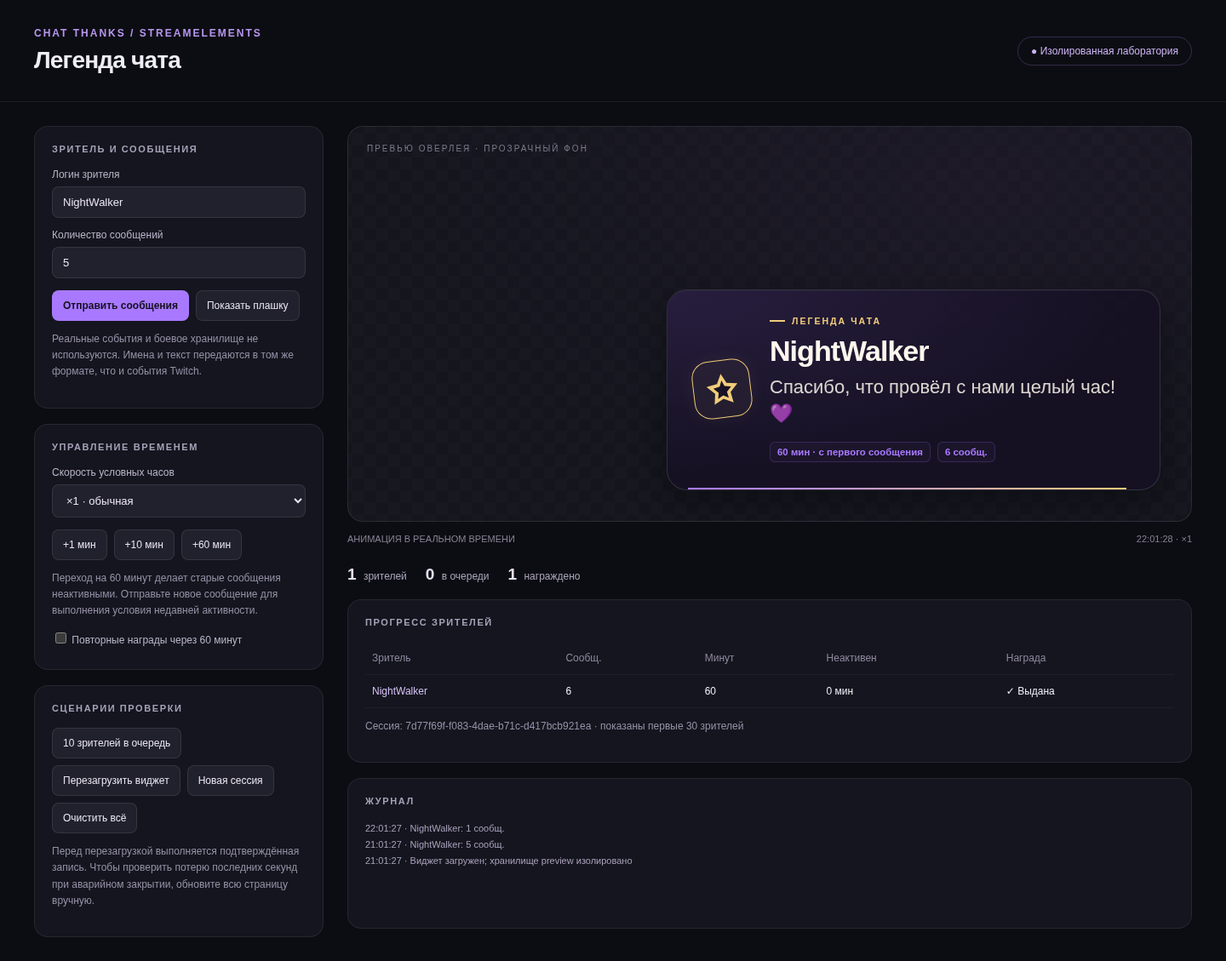
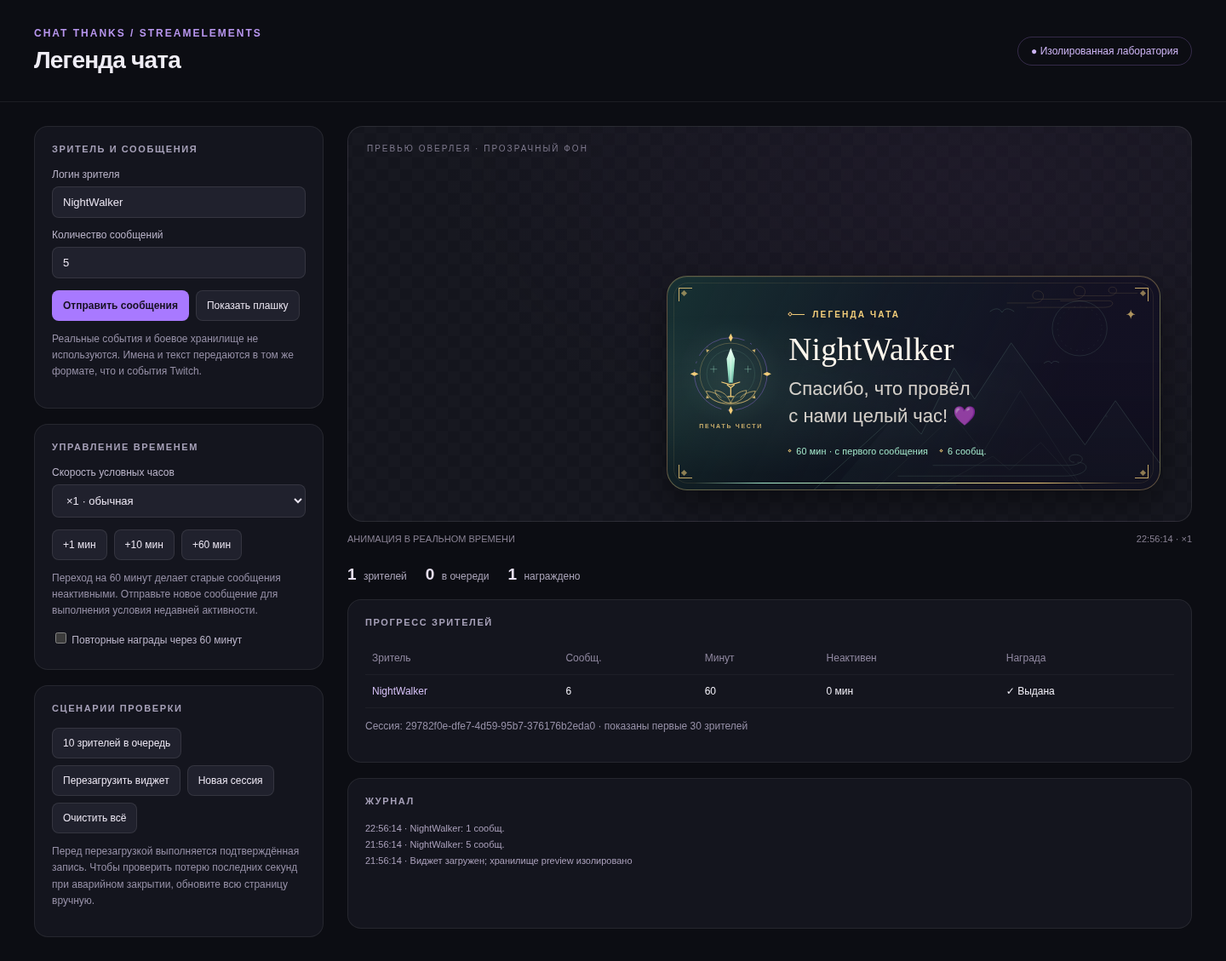
Оформить благодарности в стиле дунхуа: нефритовая печать, лотос, горы и золотые орнаменты

diff --git a/widget/CSS.css b/widget/CSS.css
@@ -1,35 +1,98 @@
 html, body { margin:0; background:transparent !important; }
-/* Все селекторы ограничены виджетом; фон Browser Source прозрачен. */
-#thanks-root { --primary:#a879ff; --secondary:#f1cc79; --panel:#151123; --ink:#fff7ed; --font:22px; --width:580px; --radius:24px; --enter:.65s; --hold:7s; --exit:.55s; position:fixed; inset:0; overflow:hidden; pointer-events:none; font-family:Inter,"Segoe UI",Arial,sans-serif; color:var(--ink); }
+/* Дунхуа / сянься: нефритовая печать, золотая нить и тушевые горы.
+   Векторный декор без внешних ресурсов. Двигаются только transform и opacity. */
+#thanks-root {
+  --primary:#a879ff; --secondary:#f1cc79; --panel:#151123; --ink:#fff7ed;
+  --jade:#a4e9cc; --font:22px; --width:580px; --radius:24px;
+  --enter:.65s; --hold:7s; --exit:.55s;
+  position:fixed; inset:0; overflow:hidden; pointer-events:none;
+  font-family:"Segoe UI",Arial,sans-serif; color:var(--ink);
+}
 #thanks-root *, #thanks-root *::before, #thanks-root *::after { box-sizing:border-box; }
 #thanks-root [hidden] { display:none!important; }
-#thanks-root .thanks-card { position:absolute; right:36px; bottom:36px; width:min(var(--width),calc(100% - 72px)); display:flex; gap:22px; align-items:center; padding:30px 30px 32px; border:1px solid #ffffff20; border-radius:var(--radius); background:var(--panel); background:color-mix(in srgb,var(--panel) 93%,transparent); box-shadow:0 12px 40px #0005, inset 0 1px #ffffff0a; isolation:isolate; opacity:0; transform:translateX(110%); }
-#thanks-root .thanks-card::before { content:""; position:absolute; inset:0; border-radius:inherit; background:radial-gradient(ellipse at 0 0,#a879ff20,transparent 65%); z-index:-1; }
+#thanks-root .thanks-card {
+  position:absolute; right:36px; bottom:36px;
+  width:min(var(--width),calc(100% - 72px)); display:flex;
+  align-items:center; gap:clamp(12px,calc(var(--width) / 30),22px);
+  padding:32px clamp(16px,calc(var(--width) / 22),30px) 34px;
+  border:1px solid #f1cc7952; border-color:color-mix(in srgb,var(--secondary) 35%,transparent);
+  border-radius:var(--radius); background:var(--panel);
+  background:linear-gradient(115deg,#183e39b3 0%,#10272b70 39%,#060f1b20 75%),var(--panel);
+  box-shadow:0 16px 38px #0006,inset 0 1px #f1cc7915;
+  isolation:isolate; opacity:0; transform:translateX(110%);
+}
+#thanks-root .thanks-card::before {
+  content:""; position:absolute; inset:0; z-index:-1; border-radius:inherit;
+  background:radial-gradient(ellipse at 14% 55%,#a4e9cc12,transparent 49%),linear-gradient(0deg,#0003,transparent 60%);
+}
+#thanks-root .thanks-card::after {
+  content:""; position:absolute; inset:7px; pointer-events:none;
+  border:1px solid #f1cc7919; border-radius:max(0px,calc(var(--radius) - 7px));
+}
+#thanks-root .thanks-landscape {
+  position:absolute; inset:0; width:100%; height:100%; color:var(--jade);
+  opacity:.2; z-index:0; pointer-events:none; border-radius:inherit;
+}
+#thanks-root .thanks-cloud { position:absolute; color:var(--secondary); pointer-events:none; opacity:.24; }
+#thanks-root .thanks-cloud-top { top:10px; right:25px; width:155px; height:29px; }
+#thanks-root .thanks-cloud svg { display:block; width:100%; height:100%; }
+#thanks-root .thanks-corner { position:absolute; width:16px; height:16px; border-top:1px solid var(--secondary); border-left:1px solid var(--secondary); opacity:.8; z-index:3; }
+#thanks-root .thanks-corner::after { content:""; position:absolute; top:3px; left:3px; width:5px; height:5px; background:var(--secondary); transform:rotate(45deg); opacity:.7; }
+#thanks-root .thanks-corner-tl { top:13px; left:13px; }
+#thanks-root .thanks-corner-tr { top:13px; right:13px; transform:rotate(90deg); }
+#thanks-root .thanks-corner-bl { bottom:13px; left:13px; transform:rotate(-90deg); }
+#thanks-root .thanks-corner-br { bottom:13px; right:13px; transform:rotate(180deg); }
+#thanks-root .thanks-icon { position:relative; z-index:2; flex:0 0 clamp(56px,calc(var(--width) / 6),100px); min-width:0; align-self:center; color:var(--secondary); text-align:center; }
+#thanks-root .thanks-seal { position:relative; width:100%; aspect-ratio:1; }
+#thanks-root .thanks-seal::before { content:""; position:absolute; inset:-16%; background:radial-gradient(circle,#a4e9cc14,transparent 68%); border-radius:50%; }
+#thanks-root .thanks-seal svg { display:block; position:relative; width:100%; height:100%; }
+#thanks-root .thanks-seal-ring { stroke:var(--primary); opacity:.7; }
+#thanks-root .thanks-seal-caption { display:block; font-size:7px; font-weight:600; line-height:1.5; letter-spacing:1.7px; margin:9px -4px 0; opacity:.8; }
+#thanks-root .thanks-copy { position:relative; z-index:2; min-width:0; flex:1; padding:3px 0; }
+#thanks-root .thanks-eyebrow { display:flex; align-items:center; gap:9px; color:var(--secondary); font-size:calc(var(--font) * .46); font-weight:600; line-height:1.5; letter-spacing:2.1px; overflow-wrap:anywhere; }
+#thanks-root .thanks-line { position:relative; display:block; width:19px; height:1px; background:var(--secondary); flex-shrink:0; }
+#thanks-root .thanks-line::before { content:""; position:absolute; width:4px; height:4px; left:0; top:-1.5px; border:1px solid var(--secondary); background:var(--panel); transform:rotate(45deg); }
+#thanks-root .thanks-title-star { margin-left:auto; font-size:13px; opacity:.7; }
+#thanks-root h1 { margin:11px 0 9px; font-family:Georgia,"Times New Roman",serif; font-size:calc(var(--font) * 1.7); line-height:1.12; font-weight:500; letter-spacing:.2px; overflow-wrap:anywhere; text-shadow:0 1px 16px #f1cc7912; }
+#thanks-root p { margin:0; font-size:var(--font); font-weight:400; line-height:1.45; opacity:.82; overflow-wrap:anywhere; white-space:pre-wrap; text-wrap:balance; }
+#thanks-root .thanks-stats { display:flex; flex-wrap:wrap; align-items:center; gap:7px 14px; margin-top:17px; color:var(--jade); font-size:calc(var(--font) * .49); line-height:1.5; letter-spacing:.15px; }
+#thanks-root .thanks-stats span { display:inline-flex; gap:6px; align-items:center; }
+#thanks-root .thanks-stats span::before { content:""; width:3px; height:3px; border:1px solid var(--secondary); transform:rotate(45deg); flex:0 0 3px; opacity:.9; }
+#thanks-root .thanks-progress { position:absolute; z-index:3; height:1px; bottom:7px; left:calc(var(--radius) + 7px); right:calc(var(--radius) + 7px); background:linear-gradient(90deg,transparent,var(--jade) 16%,var(--secondary) 80%,transparent); transform-origin:left; }
+#thanks-root .thanks-particles { position:absolute; z-index:3; inset:0; overflow:hidden; border-radius:inherit; pointer-events:none; }
+#thanks-root .thanks-particles i { position:absolute; width:2px; height:2px; border-radius:50%; background:var(--secondary); opacity:0; left:var(--x); top:var(--y); }
+#thanks-root .thanks-particles i:nth-child(even) { background:var(--jade); width:3px; height:3px; }
+#thanks-root .thanks-particles i:nth-child(1) { --x:8%; --y:30%; --delay:0s; }
+#thanks-root .thanks-particles i:nth-child(2) { --x:24%; --y:78%; --delay:.08s; }
+#thanks-root .thanks-particles i:nth-child(3) { --x:66%; --y:13%; --delay:.12s; }
+#thanks-root .thanks-particles i:nth-child(4) { --x:89%; --y:62%; --delay:.04s; }
+#thanks-root .thanks-particles i:nth-child(5) { --x:41%; --y:10%; --delay:.17s; }
+#thanks-root .thanks-particles i:nth-child(6) { --x:72%; --y:86%; --delay:.08s; }
+#thanks-root .thanks-particles i:nth-child(7) { --x:95%; --y:22%; --delay:.19s; }
+#thanks-root .thanks-particles i:nth-child(8) { --x:13%; --y:89%; --delay:.14s; }
 #thanks-root .thanks-card.enter { animation:thanks-enter var(--enter) cubic-bezier(.16,1,.3,1) both; }
-#thanks-root .thanks-card.hold { opacity:1; transform:translateX(0); }
-#thanks-root .thanks-card.exit { animation:thanks-exit var(--exit) ease-in both; }
-#thanks-root .thanks-icon { flex:0 0 68px; width:68px; height:68px; display:grid; place-items:center; border:1px solid var(--secondary); border-radius:20px; color:var(--secondary); background:#f1cc790b; box-shadow:0 0 22px #f1cc7912; transform:rotate(-7deg); }
-#thanks-root .thanks-icon svg { width:45px; height:45px; }
-#thanks-root .thanks-copy { min-width:0; flex:1; }
-#thanks-root .thanks-eyebrow { display:flex; align-items:center; gap:8px; color:var(--secondary); font-size:calc(var(--font)*.48); font-weight:700; letter-spacing:2px; overflow-wrap:anywhere; }
-#thanks-root .thanks-line { display:block; width:18px; height:2px; background:var(--secondary); flex-shrink:0; }
-#thanks-root h1 { margin:10px 0 8px; font-size:calc(var(--font)*1.55); line-height:1.15; font-weight:750; letter-spacing:-1px; overflow-wrap:anywhere; }
-#thanks-root p { margin:0; font-size:var(--font); line-height:1.4; opacity:.85; overflow-wrap:anywhere; white-space:pre-wrap; }
-#thanks-root .thanks-stats { display:flex; flex-wrap:wrap; gap:8px; margin-top:17px; color:var(--primary); font-size:calc(var(--font)*.52); font-weight:600; }
-#thanks-root .thanks-stats span { border:1px solid #a879ff30; border-radius:6px; padding:5px 8px; background:#a879ff0a; }
-#thanks-root .thanks-progress { position:absolute; height:2px; bottom:0; left:var(--radius); right:var(--radius); background:linear-gradient(90deg,var(--primary),var(--secondary)); transform-origin:left; }
-#thanks-root .hold .thanks-progress { animation:thanks-timer var(--hold) linear both; }
-#thanks-root .thanks-particles { position:absolute; inset:0; overflow:hidden; border-radius:inherit; pointer-events:none; }
-#thanks-root .thanks-particles i { position:absolute; width:3px; height:3px; border-radius:50%; background:var(--secondary); opacity:0; left:var(--x); top:var(--y); }
+#thanks-root .enter .thanks-seal svg { animation:thanks-seal-reveal var(--enter) ease-out both; }
 #thanks-root .enter .thanks-particles i { animation:thanks-spark 1.4s ease-out both; animation-delay:var(--delay); }
-#thanks-root .thanks-particles i:nth-child(1){--x:8%;--y:30%;--delay:0s} #thanks-root .thanks-particles i:nth-child(2){--x:25%;--y:80%;--delay:.1s} #thanks-root .thanks-particles i:nth-child(3){--x:65%;--y:15%;--delay:.15s} #thanks-root .thanks-particles i:nth-child(4){--x:89%;--y:60%;--delay:.05s} #thanks-root .thanks-particles i:nth-child(5){--x:40%;--y:10%;--delay:.2s} #thanks-root .thanks-particles i:nth-child(6){--x:70%;--y:90%;--delay:.1s} #thanks-root .thanks-particles i:nth-child(7){--x:95%;--y:20%;--delay:.2s} #thanks-root .thanks-particles i:nth-child(8){--x:12%;--y:90%;--delay:.15s}
+#thanks-root .thanks-card.hold { opacity:1; transform:translateX(0); }
+#thanks-root .hold .thanks-progress { animation:thanks-timer var(--hold) linear both; }
+#thanks-root .hold .thanks-particles i { animation:thanks-mote var(--hold) ease-out both; animation-delay:var(--delay); }
+#thanks-root .thanks-card.exit { animation:thanks-exit var(--exit) ease-in both; }
 #thanks-root[data-position="top-left"] .thanks-card { left:36px; right:auto; top:36px; bottom:auto; }
 #thanks-root[data-position="top-right"] .thanks-card { top:36px; bottom:auto; }
 #thanks-root[data-position="bottom-left"] .thanks-card { left:36px; right:auto; }
 #thanks-root[data-position="center"] { display:grid; place-items:center; }
 #thanks-root[data-position="center"] .thanks-card { position:relative; inset:auto; }
-@keyframes thanks-enter { from {opacity:0;transform:translateX(110%)} to {opacity:1;transform:translateX(0)} }
-@keyframes thanks-exit { from {opacity:1;transform:translateX(0)} to {opacity:0;transform:translateX(60px)} }
-@keyframes thanks-timer { from {transform:scaleX(1)} to {transform:scaleX(0)} }
-@keyframes thanks-spark { 0% {opacity:0;transform:translate(12px,10px) scale(.5)} 25% {opacity:.8} 100% {opacity:0;transform:translate(-18px,-25px) scale(0)} }
-@media(prefers-reduced-motion:reduce) { #thanks-root .thanks-card.enter,#thanks-root .thanks-card.exit { animation-timing-function:linear; } #thanks-root .thanks-particles { display:none; } }
+@keyframes thanks-enter { from { opacity:0; transform:translateX(110%); } to { opacity:1; transform:translateX(0); } }
+@keyframes thanks-exit { from { opacity:1; transform:translateX(0); } to { opacity:0; transform:translateX(60px); } }
+@keyframes thanks-seal-reveal { from { opacity:0; transform:rotate(-12deg) scale(.85); } to { opacity:1; transform:rotate(0) scale(1); } }
+@keyframes thanks-timer { from { transform:scaleX(1); } to { transform:scaleX(0); } }
+@keyframes thanks-spark { 0% { opacity:0; transform:translate(8px,8px) scale(.5); } 30% { opacity:.8; } 100% { opacity:0; transform:translate(-12px,-22px) scale(0); } }
+@keyframes thanks-mote { 0% { opacity:0; transform:translateY(8px); } 20% { opacity:.6; } 100% { opacity:0; transform:translateY(-30px); } }
+@media(prefers-reduced-motion:reduce) {
+  #thanks-root .thanks-card.enter { animation-name:thanks-fade-in; }
+  #thanks-root .thanks-card.exit { animation-name:thanks-fade-out; }
+  #thanks-root .thanks-particles { display:none; }
+  #thanks-root .thanks-seal svg { animation:none!important; }
+}
+@keyframes thanks-fade-in { from { opacity:0; transform:translateX(0); } to { opacity:1; transform:translateX(0); } }
+@keyframes thanks-fade-out { from { opacity:1; transform:translateX(0); } to { opacity:0; transform:translateX(0); } }

diff --git a/widget/HTML.html b/widget/HTML.html
@@ -1,11 +1,44 @@
-<div id="thanks-root" aria-live="polite">
+<div id="thanks-root" data-theme="donghua" aria-live="polite">
   <section id="thanks-card" class="thanks-card" hidden>
+    <svg class="thanks-landscape" viewBox="0 0 680 280" preserveAspectRatio="xMaxYMax slice" fill="none" aria-hidden="true">
+      <circle cx="575" cy="68" r="36" stroke="currentColor" stroke-width=".65"/>
+      <circle cx="575" cy="68" r="29" stroke="currentColor" stroke-width=".35" stroke-dasharray="2 6"/>
+      <path d="m250 280 89-103 28 30 43-87 27 41 48-74 97 134 40-58 58 82v35Z" fill="currentColor" opacity=".12"/>
+      <path d="m226 280 113-103 28 30 43-87 27 41 48-74 97 134 40-58 58 82" stroke="currentColor" stroke-width=".8"/>
+      <path d="m306 280 103-98 39 49 49-81 83 130m-199 0 80-44 22 18 41-36 56 62" stroke="currentColor" stroke-width=".45" opacity=".7"/>
+      <path d="M457 46c8-6 13-4 16 1 3-5 8-7 16-1m39 68c5-4 8-3 10 0 2-3 5-4 10-1" stroke="currentColor" stroke-width=".8"/>
+      <path d="M382 248h177c24 0 24-14 10-14-10 0-10 10-1 10m-232 18h219c34 0 35-18 17-18m-299 29h140" stroke="currentColor" stroke-width=".7"/>
+    </svg>
+    <div class="thanks-cloud thanks-cloud-top" aria-hidden="true">
+      <svg viewBox="0 0 240 44" fill="none"><path d="M1 32h49c22 0 22-22 7-22-12 0-12 15-2 15h68c25 0 25-23 10-23-13 0-13 17-2 17h54c19 0 19-16 8-16-9 0-9 11-2 11h48M37 40h140c20 0 20-12 9-12H98" stroke="currentColor" stroke-width=".8"/></svg>
+    </div>
+    <span class="thanks-corner thanks-corner-tl" aria-hidden="true"></span>
+    <span class="thanks-corner thanks-corner-tr" aria-hidden="true"></span>
+    <span class="thanks-corner thanks-corner-bl" aria-hidden="true"></span>
+    <span class="thanks-corner thanks-corner-br" aria-hidden="true"></span>
     <div class="thanks-particles" aria-hidden="true"><i></i><i></i><i></i><i></i><i></i><i></i><i></i><i></i></div>
     <div class="thanks-icon" aria-hidden="true">
-      <svg viewBox="0 0 64 64" fill="none"><path d="m32 6 8 16 18 3-13 13 3 18-16-8-16 8 3-18L6 25l18-3Z" fill="currentColor"/><path d="m32 17 4 10 11 2-8 8 2 10-9-5-9 5 2-10-8-8 11-2Z" fill="#171125"/></svg>
+      <div class="thanks-seal">
+        <svg viewBox="0 0 120 120" fill="none">
+          <defs>
+            <linearGradient id="thanks-jade-blade" x1="55" y1="24" x2="65" y2="82" gradientUnits="userSpaceOnUse"><stop stop-color="#effff3"/><stop offset=".48" stop-color="#a4e9cc"/><stop offset="1" stop-color="#4e9e91"/></linearGradient>
+          </defs>
+          <circle class="thanks-seal-ring" cx="60" cy="60" r="53" stroke="currentColor" stroke-width=".65" stroke-dasharray="76 9 3 9"/>
+          <circle cx="60" cy="60" r="45" stroke="currentColor" stroke-width=".5" opacity=".65"/>
+          <path d="m60 1 3 6-3 6-3-6Zm59 59-6 3-6-3 6-3ZM60 119l-3-6 3-6 3 6ZM1 60l6-3 6 3-6 3Z" fill="currentColor"/>
+          <path d="m24 24 5 1-4 4Zm72 0-1 5-4-4Zm0 72-5-1 4-4Zm-72 0 1-5 4 4Z" fill="currentColor" opacity=".8"/>
+          <circle cx="60" cy="60" r="35" stroke="#a4e9cc" stroke-width=".4" opacity=".35"/>
+          <path d="m60 22 6 16-3 35h-6l-3-35Z" fill="url(#thanks-jade-blade)"/>
+          <path d="M60 30v42" stroke="#f3fff6" stroke-width=".8" opacity=".9"/>
+          <path d="m47 72 13 4 13-4m-18 4 5 4 5-4m-5 5v12m-4 0h8" stroke="currentColor" stroke-width="1.6" stroke-linecap="round" stroke-linejoin="round"/>
+          <path d="M60 103c-13-2-22-9-23-19 11 1 19 7 23 19Zm0 0c13-2 22-9 23-19-11 1-19 7-23 19Zm0 0c-20 1-33-7-36-18 11 1 18 5 22 10m14 8c20 1 33-7 36-18-11 1-18 5-22 10" stroke="currentColor" stroke-width=".8"/>
+          <path d="M30 53h10m-5-5v10m45-5h10m-5-5v10" stroke="#a4e9cc" stroke-width=".65" opacity=".7"/>
+        </svg>
+      </div>
+      <span class="thanks-seal-caption">ПЕЧАТЬ ЧЕСТИ</span>
     </div>
     <div class="thanks-copy">
-      <div class="thanks-eyebrow"><span class="thanks-line"></span><span id="thanks-title"></span></div>
+      <div class="thanks-eyebrow"><span class="thanks-line"></span><span id="thanks-title"></span><span class="thanks-title-star" aria-hidden="true">✦</span></div>
       <h1 id="thanks-name"></h1>
       <p id="thanks-text"></p>
       <div class="thanks-stats"><span id="thanks-minutes"></span><span id="thanks-messages"></span></div>

diff --git a/docs/DONGHUA.md b/docs/DONGHUA.md
@@ -1,0 +1,19 @@
+# Оформление в стиле дунхуа
+
+Фэнтезийная тема в духе сянься: нефритовый меч, лотос и орбитальная печать, тонкая золотая рамка, облачные линии, тушевые горы и луна. Имя зрителя выделено крупным шрифтом с засечками; остальной текст остаётся русским и читаемым.
+
+![Плашка в стиле дунхуа](DONGHUA.png)
+
+## Как получить оформление
+
+Тема опубликована в `widget/HTML.html` и `widget/CSS.css`. При установленном новом AUTOUPDATE.js (загрузка HTML/CSS/JS) она приходит автоматически при очередной проверке, обычно в течение пяти минут, после завершения текущей очереди. Чтобы получить её сразу, обновите оверлей. FIELDS, DATA и прогресс менять не нужно.
+
+Старый загрузчик только JavaScript не загружает новую тему: его нужно один раз заменить по [инструкции](AUTOUPDATE.md). В ручном режиме скопируйте обновлённые HTML.html и CSS.css в соответствующие вкладки, сохраните и обновите виджет.
+
+## Настройки и производительность
+
+Размер шрифта, ширина, скругление, положение, текст и длительность по-прежнему задаются существующими FIELDS. Основной цвет управляет внешней орбитой печати, дополнительный — золотым обрамлением и заголовком, цвет фона — основой тёмной плашки, цвет текста — именем и благодарностью. Нефритовый меч и дымчатые горы — детали темы с собственным мягким оттенком; сохранённые пользовательские цвета не сбрасываются.
+
+Частицы отключаются прежним полем. Все изображения — встроенные SVG, сетевых запросов к картинкам и внешним шрифтам нет. Градиенты, горы и орнаменты статичны. Во время показа двигаются только transform и opacity: выезд, короткое появление печати, восемь лёгких частиц и линия длительности. При reduced motion выезд заменяется появлением через прозрачность, частицы и анимация печати отключаются.
+
+Проверены обычная плашка, ширина 280 px с длинным кириллическим именем, отсутствие горизонтального переполнения, последовательный показ наград и применение новой HTML/CSS через загрузчик с сохранением сессии. Фактическая плавность в конкретной сцене OBS зависит от компьютера пользователя.

diff --git a/docs/VALIDATION.md b/docs/VALIDATION.md
@@ -47,3 +47,7 @@
 ## Полный комплект оформления и логики — 10 ноября 2026 года
 
 Новый AUTOUPDATE.js обновляет HTML/CSS/JS по одному SHA, полученному через публичный GitHub API. Браузерный сценарий автообновления переработан под пустые локальные вкладки, смену main во время скачивания, CSS-only изменения, ошибку одного из трёх запросов, неполный HTML и полный откат после сбоя JS, успевшего остановить прежний runtime. Проверены сохранение FIELDS, сессии, сообщений во время замены, офлайн-кеш всех трёх файлов и работа без постоянного сохранения. Более ранний JS-only режим, описанный в предыдущих разделах этого отчёта, заменён новым загрузчиком. Первый запуск нового загрузчика в аккаунте StreamElements требует ручной проверки; он сам себя не заменяет.
+
+## Оформление дунхуа — 10 ноября 2026 года
+
+Обновлены только HTML/CSS: встроенная SVG-печать с мечом и лотосом, горный пейзаж, золотая рама, облака, типографика и лёгкие частицы. Контракт ID и FIELDS сохранён. Браузерные сценарии обычного виджета и полного автообновления проходят с новой разметкой. Отдельно проверена ширина 280 px и длинное кириллическое имя без горизонтального переполнения. Снимки `DONGHUA.png` и `PREVIEW.png` сделаны в Chromium. JS, схема хранения и условия наград не менялись.

diff --git a/README.md b/README.md
@@ -8,6 +8,10 @@
 
 ![Превью плашки и локальная лаборатория](docs/PREVIEW.png)
 
+## Оформление дунхуа
+
+Новая фэнтезийная тема: нефритовый меч и лотос, орбитальная печать, золотые уголки, облачные орнаменты и тушевые горы. Тема встроена в HTML/CSS и автоматически приходит через полный загрузчик. [Превью плашки](docs/DONGHUA.png) · [Описание и настройки](docs/DONGHUA.md).
+
 ## Установка
 
 1. Откройте [StreamElements](https://streamelements.com/) → Streaming tools → Overlays → создайте или откройте оверлей 1920×1080.
